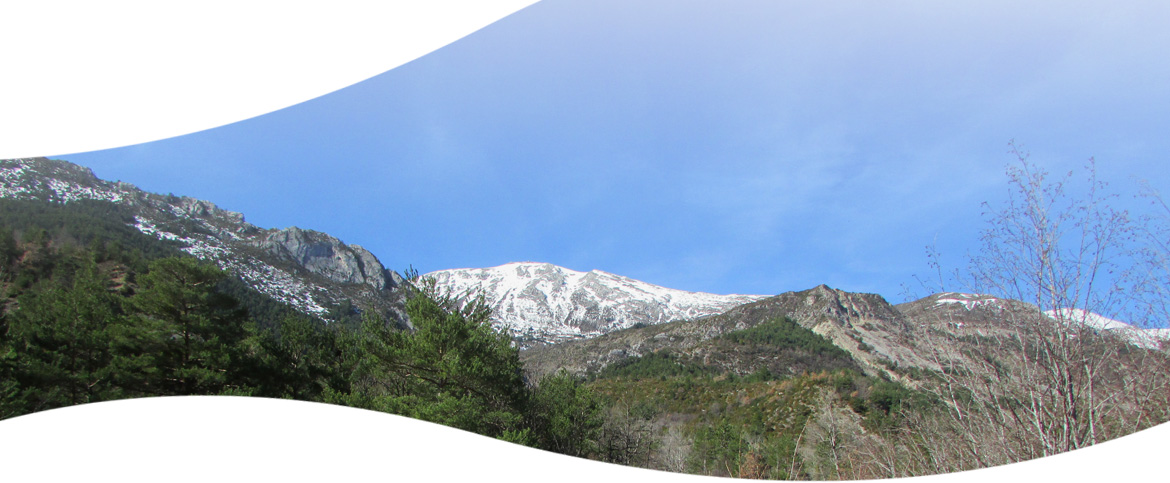
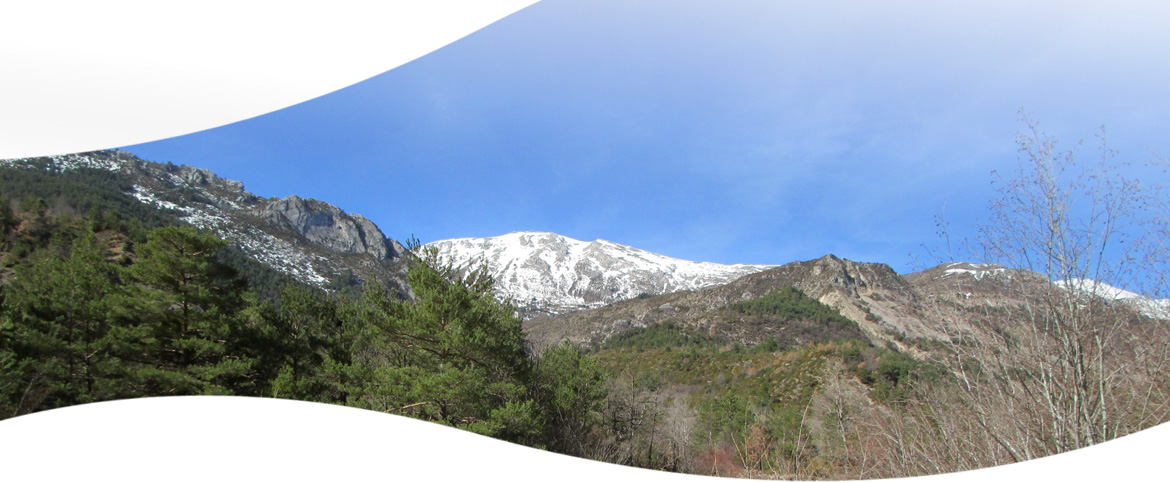
Image change avec la categorie

diff --git a/wp-content/themes/themebase/style.css b/wp-content/themes/themebase/style.css
@@ -258,12 +258,31 @@ body {
 #container{
 	max-width: 1170px;
 	margin: 0 auto; 
+	background-image: url('../../images/header-accueil.jpg');
 	background-color: #fff;
 	background-repeat: no-repeat;
 }
-#container.natura2000{
+
+#container.contact{
+	background-image: url('../../images/header-contact.jpg');
+}
+
+#container.marches-publics{
+	background-image: url('../../images/header-marches-public.jpg');
+}
+
+#container.natura-2000{
 	background-image: url('../../images/header-natura2000.jpg');
 }
+
+#container.contrat-milieu{
+	background-image: url('../../images/header-contrat-milieu.jpg');
+}
+
+#container.le-syndicat{
+	background-image: url('../../images/header-syndicat.jpg');
+}
+
 a {
 	color: #00707c;
 	text-decoration: none;
@@ -2927,10 +2946,30 @@ footer.entry-meta {
 .site-info {
 	margin: 0 auto;
 	background-repeat: no-repeat;
-	background-image: url("../../images/footer-natura2000.jpg");
+	background-image: url("../../images/footer-accueil.jpg");
 	max-width: 1200px;
 	padding-top: 19%;
 	width: 100%;
+}
+
+#container.contact .site-info {
+	background-image: url('../../images/footer-contact.jpg');
+}
+
+#container.marches-publics .site-info {
+	background-image: url('../../images/footer-marches-public.jpg');
+}
+
+#container.natura-2000 .site-info {
+	background-image: url('../../images/footer-natura2000.jpg');
+}
+
+#container.contrat-milieu .site-info {
+	background-image: url('../../images/footer-contrat-milieu.jpg');
+}
+
+#container.le-syndicat .site-info {
+	background-image: url('../../images/footer-syndicat.jpg');
 }
 
 #main-footer {

diff --git a/wp-content/themes/themebase/header.php b/wp-content/themes/themebase/header.php
@@ -33,7 +33,21 @@
 </head>
 
 <body <?php body_class(); ?>>
-	<div id="container" class="natura2000" >
+<?php
+	//recupérer la part du permalink correspondant au plus grand ancetre de la page
+	$parentSlug = "";
+	 if (is_page()) {
+	 $ancestors = get_post_ancestors($post);
+
+		 if ($ancestors) {
+			 $ancestors = array_reverse($ancestors);
+
+	 		 $parentSlug = basename(get_permalink($ancestors[0]));
+		 }
+	 	else $parentSlug = basename(get_permalink());
+	 }
+?>
+	<div id="container" class="<?php echo $parentSlug ?>" >
 		<header id="main-header" >
 			<a id="logo" class="home-link col-sm-2" href="<?php echo esc_url( home_url( '/' ) ); ?>" title="<?php echo esc_attr( get_bloginfo( 'name', 'display' ) ); ?>" rel="home">
 				<img src="<?php echo esc_url( home_url( '/wp-content/images/logo_smdba.png' ) ); ?>">
